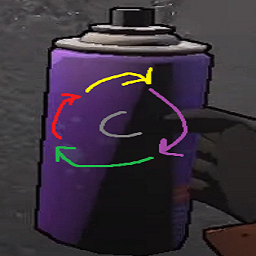
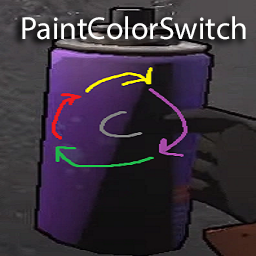
added paintcolorswitch

Changed region(s): [[0.0625, 0.0625, 0.9688, 0.1875]]

diff --git a/src/PaintColorSwitch.tsx b/src/PaintColorSwitch.tsx
@@ -1,0 +1,64 @@
+import { motion } from "framer-motion";
+import ProjectSwiper from "./components/StyledComponents/ProjectSwiper";
+import StyledButton from "./components/StyledComponents/StyledButton";
+import { paintColorSwitchMediaSwiper } from "./assets/images";
+import GitHubIcon from '@mui/icons-material/GitHub';
+
+
+function PaintColorSwitch() {
+
+    return (
+        <motion.div
+        initial={{ opacity: 0 }}
+        animate={{ opacity: 1 }}
+        exit={{ opacity: 0 }}
+      >
+        <div className="container-project">
+          <div className="container-project-description"> 
+            <h1> PaintColorSwitch </h1> 
+            <div>
+              <p>
+                PaintColorSwitch is a simple mod for Lethal Company with over <b>10k+</b> downloads, made in C#.
+                <br/><br/>
+                From the popular co-op horror game Lethal Company, this mod enables players to switch through the colors of the paint can that exists in the game. By pressing 'T' on the keyboard
+                while holding the spray can, the color will cycle from Yellow -> Purple -> Green -> Red.
+                <br/><br/>
+                The mod is client-sided, and if on a server with others, will require all players to have it in order to have the same colors synced between everyone.
+              </p>
+            </div>
+  
+            <div className="description-buttons"> 
+              <a style={{width: "50%"}} href="https://thunderstore.io/c/lethal-company/p/Silvision/PaintColorSwitch/" target="_"> <StyledButton icon="play_circle_filled_two_tone" buttonColor="playButton" buttonSize="extraLarge" text="Play"/> </a>
+              <a style={{width: "50%"}} href="https://github.com/Silvision/PaintColorSwitchMod" target="_"> <StyledButton icon={<GitHubIcon/>} buttonColor="playButton" buttonSize="extraLarge"/> </a>
+            </div>
+  
+          </div>
+          <div className="container-project-slider"> 
+            <ProjectSwiper projectMedia={paintColorSwitchMediaSwiper} embededVideo={false} videoLink="https://www.youtube.com/embed/VwJggqvxGUQ?si=3xocSKQHFXdmzVV1"/> 
+          </div>
+          
+        </div>
+
+        <div className="project-details">
+        <h1> Background </h1>
+          <p>
+            There isn't too much background behind this one. I really enjoyed playing Lethal Company with my friends, and realized there wasn't any functionality to easily switch paint colors so players didn't have to:
+            <br/><br/>
+            1. Depend on RNG to get a different spray paint color when buying the can.
+            <br/>
+            2. Differentiate colors between each other.
+            <br/> <br/>
+            I didn't know how to mod, so I joined a discord community and learned to use Harmony 2 to inject patches into code I wanted to alter. After awhile of tinkering and figuring out how Unity's Netcode for GameObjects worked,
+            I had a functioning mod that was arguably the first in the community to sync this specific functionality between players.
+
+          </p>
+        </div>
+
+      </motion.div>     
+    )
+
+}
+
+export default PaintColorSwitch;
+
+

diff --git a/src/assets/images.tsx b/src/assets/images.tsx
@@ -11,7 +11,10 @@ const ecosphereMediaImport = importAll(import.meta.glob('./Ecosphere/*.{png,mp4,
 const ecosphereMediaSwiperImport = importAll(import.meta.glob('./Ecosphere/swiperImages/*.{png,mp4}', {as: 'url', eager: true}));
 
 const paintColorSwitchMediaImport = importAll(import.meta.glob('./PaintColorSwitch/*.{png,}', {as: 'url', eager: true}));
+const paintColorSwitchMediaSwiperImport = importAll(import.meta.glob('./PaintColorSwitch/swiperImages/*.{png,}', {as: 'url', eager: true}));
 
 export const projectsMedia: string[] = [ecosphereMediaImport[0], ecosphereMediaImport[1], paintColorSwitchMediaImport[0]]
 export const ecosphereMedia: string[] = ecosphereMediaImport
 export const ecosphereMediaSwiper: string[] = ecosphereMediaSwiperImport
+export const paintColorSwitchMedia: string[] = paintColorSwitchMediaImport
+export const paintColorSwitchMediaSwiper: string[] = paintColorSwitchMediaSwiperImport

diff --git a/src/Ecosphere.tsx b/src/Ecosphere.tsx
@@ -17,9 +17,9 @@ function Ecosphere() {
           <h1> EcoSphere </h1> 
           <div>
             <p>
-              EcoSphere is a 3D roguelike adventure game.
+              EcoSphere is a 3D roguelike adventure game created in Unreal Engine 5.
               <br/><br/>
-              Playing as either a Mage or Sword class, the player adventures through multiple biomes and encounters different types of enemies to destroy for EXP, gaining
+              The player, as a mage or swordsman, adventures through multiple biomes and encounters different types of enemies to destroy for EXP, gaining
               new strengths and abilities.
               Each run can have randomized abilities based on an element unlocked through the biomes the player is free to choose to adventure through.
               The randomization allows for new methods of fighting through each playthrough.

diff --git a/src/AnimatedRoutes.tsx b/src/AnimatedRoutes.tsx
@@ -3,6 +3,7 @@ import Projects from "./Projects";
 import Ecosphere from "./Ecosphere";
 import { AnimatePresence } from "framer-motion";
 import Profile from "./Profile";
+import PaintColorSwitch from "./PaintColorSwitch";
 
 function AnimatedRoutes() {
   const location = useLocation();
@@ -13,6 +14,7 @@ function AnimatedRoutes() {
         <Route index element={<Projects />} />
         <Route path="profile" element={<Profile />} />
         <Route path="ecosphere" element={<Ecosphere />} />
+        <Route path="paintColorSwitch" element={<PaintColorSwitch/>} />
       </Routes>
     </AnimatePresence>
   );
